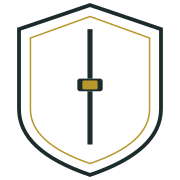
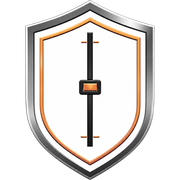
auto-commit for 94d9b626-a446-4f39-9311-5f51eedc6bd9

Changed region(s): [[0.0833, 0.0, 0.9167, 1.0]]

diff --git a/frontend/public/index.html b/frontend/public/index.html
@@ -2,9 +2,13 @@
 <html lang="en">
   <head>
     <meta charset="utf-8" />
-    <link rel="icon" type="image/png" href="%PUBLIC_URL%/favicon.png" sizes="32x32" />
-    <link rel="icon" type="image/svg+xml" href="%PUBLIC_URL%/favicon.svg" />
-    <link rel="apple-touch-icon" href="%PUBLIC_URL%/apple-touch-icon.png" sizes="180x180" />
+    <link rel="icon" type="image/x-icon" href="%PUBLIC_URL%/favicon.ico?v=2" />
+    <link rel="icon" type="image/png" sizes="16x16" href="%PUBLIC_URL%/favicon-16.png?v=2" />
+    <link rel="icon" type="image/png" sizes="32x32" href="%PUBLIC_URL%/favicon-32.png?v=2" />
+    <link rel="icon" type="image/png" sizes="48x48" href="%PUBLIC_URL%/favicon-48.png?v=2" />
+    <link rel="apple-touch-icon" sizes="180x180" href="%PUBLIC_URL%/apple-touch-icon.png?v=2" />
+    <link rel="icon" type="image/png" sizes="192x192" href="%PUBLIC_URL%/android-chrome-192.png?v=2" />
+    <link rel="icon" type="image/png" sizes="512x512" href="%PUBLIC_URL%/android-chrome-512.png?v=2" />
     <meta name="viewport" content="width=device-width, initial-scale=1" />
     <meta name="theme-color" content="#1C2B2B" />
     
